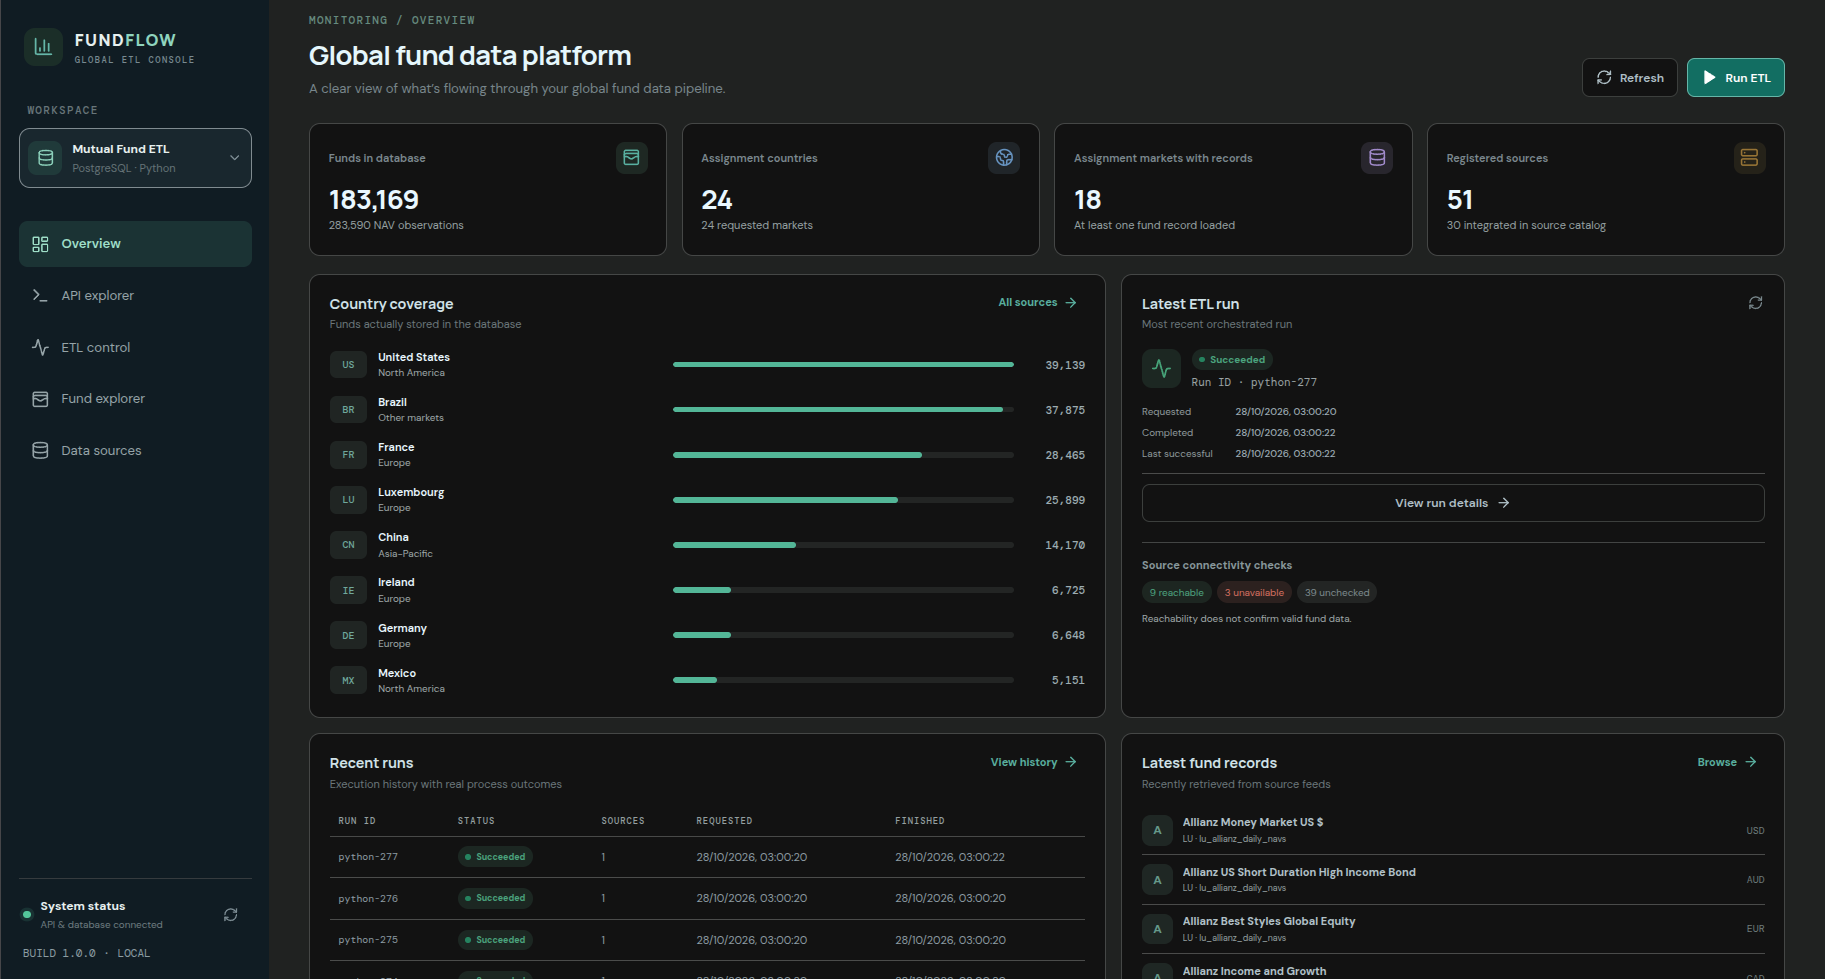
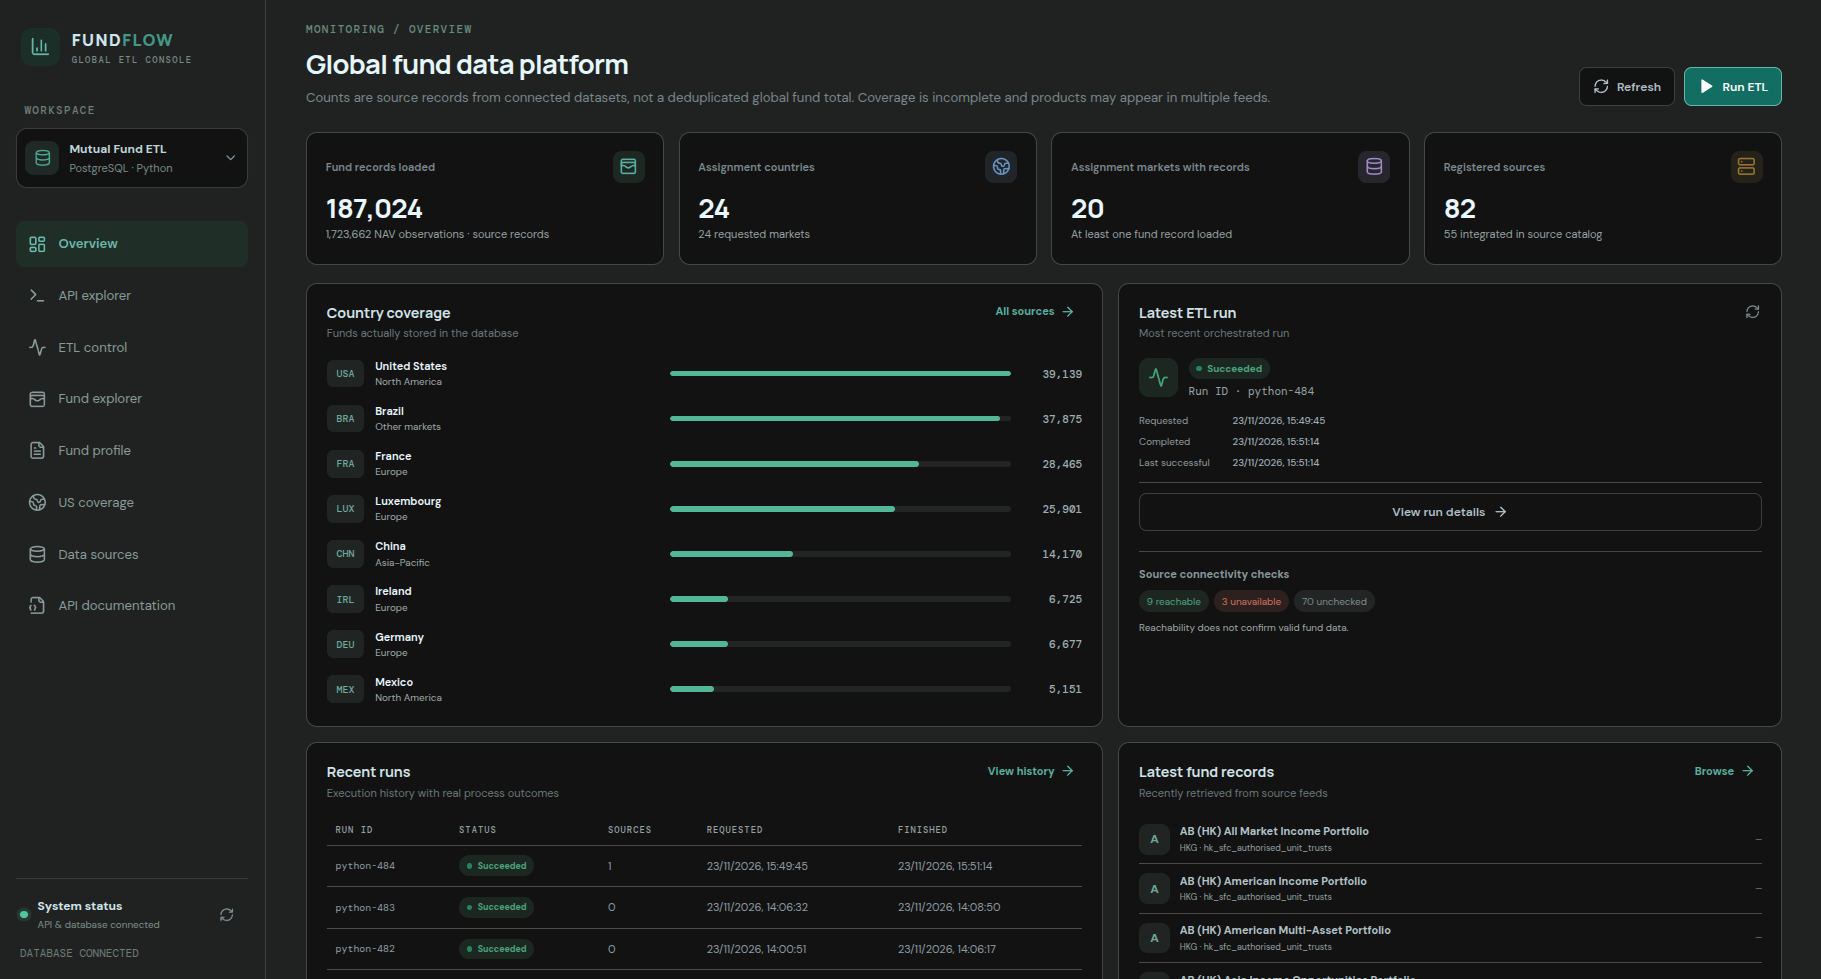
docs: refresh README screenshots

diff --git a/README.md b/README.md
@@ -334,11 +334,15 @@ ETL controls and source connectivity checks require the `X-API-Key` header. The 
 
 ## Screenshots
 
-The existing screenshots are retained below.
+Screenshots below show the current FundFlow dashboard and fund profile.
 
 ### Overview
 
-![FundFlow overview dashboard](docs/screenshots/fundflow-overview.png)
+![Latest FundFlow overview dashboard](docs/screenshots/fundflow-overview.png)
+
+### Fund Profile
+
+![Fund profile showing Vanguard 500 Index Fund details](docs/screenshots/fundflow-fund-profile.png)
 
 ### Fund Explorer
 
